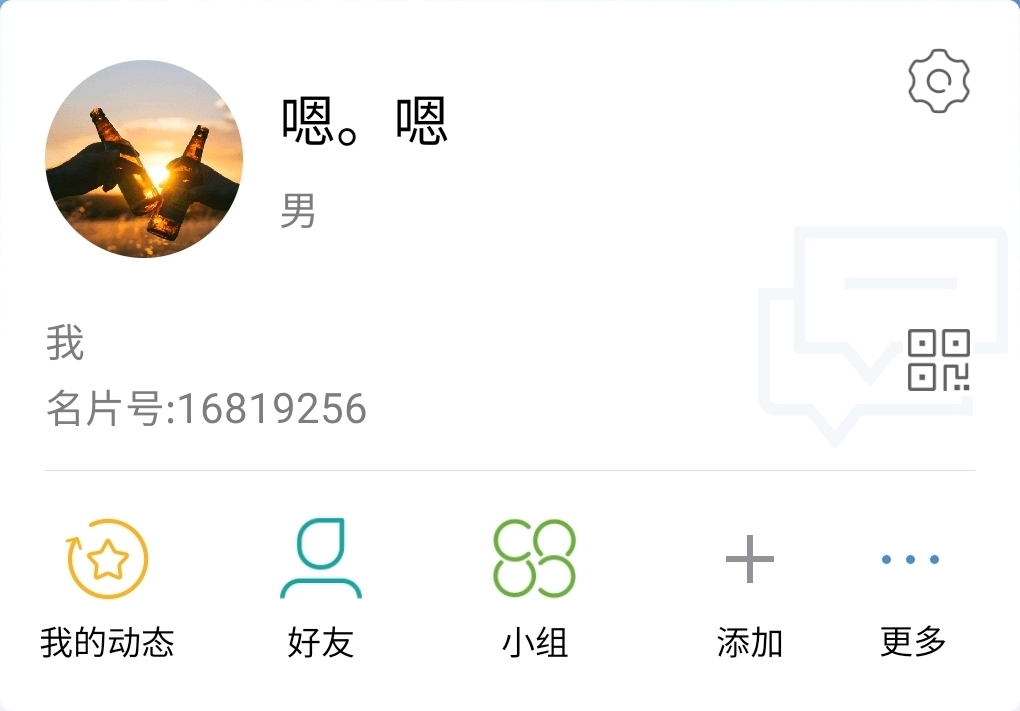
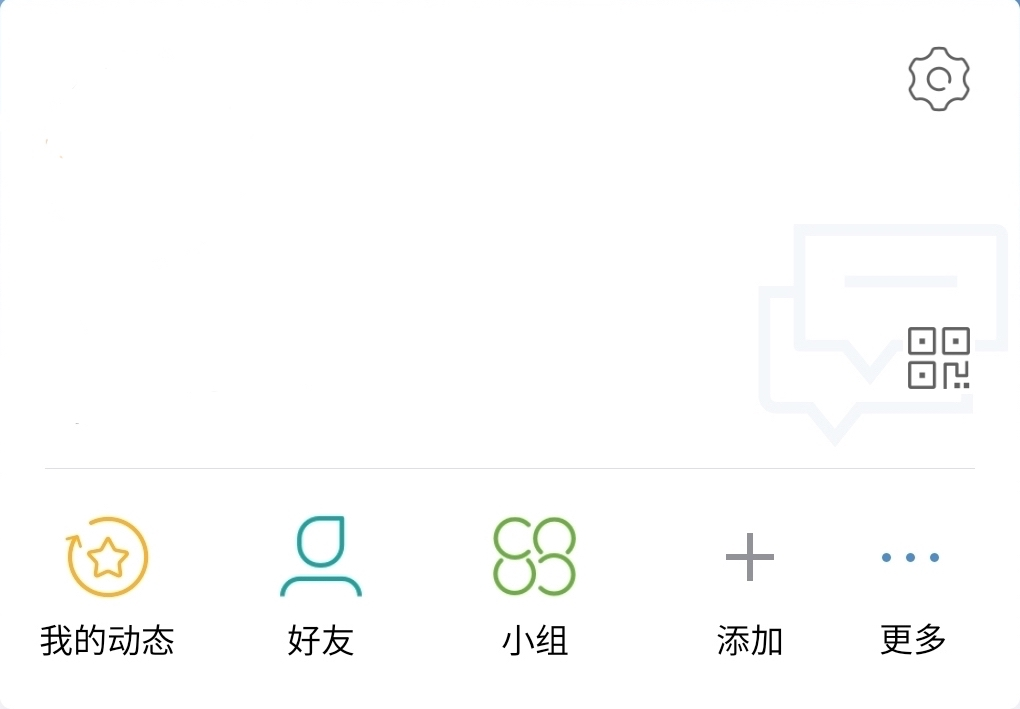
提交我的修改

diff --git a/src/screens/Main/TabMine/MineScreen/index.js b/src/screens/Main/TabMine/MineScreen/index.js
@@ -37,12 +37,33 @@ export default class MineScreen extends PureComponent {
     renderContent = () => {
         const sub = 10
         return <View style={{ paddingTop: 70, backgroundColor: 'transparent' }}>
-            <Image style={{
-                alignSelf: 'center',
-                width: UI.size.screenWidth - sub * 2,
-                height: (UI.size.screenWidth - sub * 2) * 711 / 1020,
-                borderRadius: 5
-            }} source={Images.tab_mine_2} />
+            <View>
+                <Image style={{
+                    alignSelf: 'center',
+                    width: UI.size.screenWidth - sub * 2,
+                    height: (UI.size.screenWidth - sub * 2) * 711 / 1020,
+                    borderRadius: 5
+                }} source={Images.tab_mine_2} />
+                <View style={{
+                    position: 'absolute', left: sub + 15, top: 17
+                }}>
+                    <View style={{
+                        flexDirection: 'row'
+                    }}>
+                        <Image style={{
+                            width: UI.size.screenWidth * 70 / 360,
+                            height: UI.size.screenWidth * 70 / 360,
+                            borderRadius: UI.size.screenWidth * 70 / (360 * 2),
+                        }} source={Images.tab_mine_2} />
+                        <View style={{ alignSelf: 'center', marginLeft: 10 }}>
+                            <Text numberOfLines={1} style={{ maxWidth: 150, marginBottom: 7, fontSize: UI.fontSizeNew.font_15, color: '#333333' }} >{'嗯打麻将十大大多数的三六九等'}</Text>
+                            <Text numberOfLines={1} style={{ maxWidth: 150, fontSize: UI.fontSizeNew.font_11, color: '#9D9D9D' }} >{'男'}</Text>
+                        </View >
+                    </View>
+                    <Text numberOfLines={1} style={{ maxWidth: 150, marginTop: 16, fontSize: UI.fontSizeNew.font_11, color: '#9D9D9D' }} >{'签名'}</Text>
+                    <Text numberOfLines={1} style={{ maxWidth: 150, marginTop: 4, fontSize: UI.fontSizeNew.font_11, color: '#9D9D9D' }} >{'名片号:'}</Text>
+                </View>
+            </View>
             <Image style={{
                 width: UI.size.screenWidth,
                 height: UI.size.screenWidth * 386 / 1080
@@ -52,7 +73,7 @@ export default class MineScreen extends PureComponent {
                 height: UI.size.screenWidth * 782 / 1080
             }} source={Images.tab_mine_0} />
 
-        </View>
+        </View >
     }
 
     render() {
